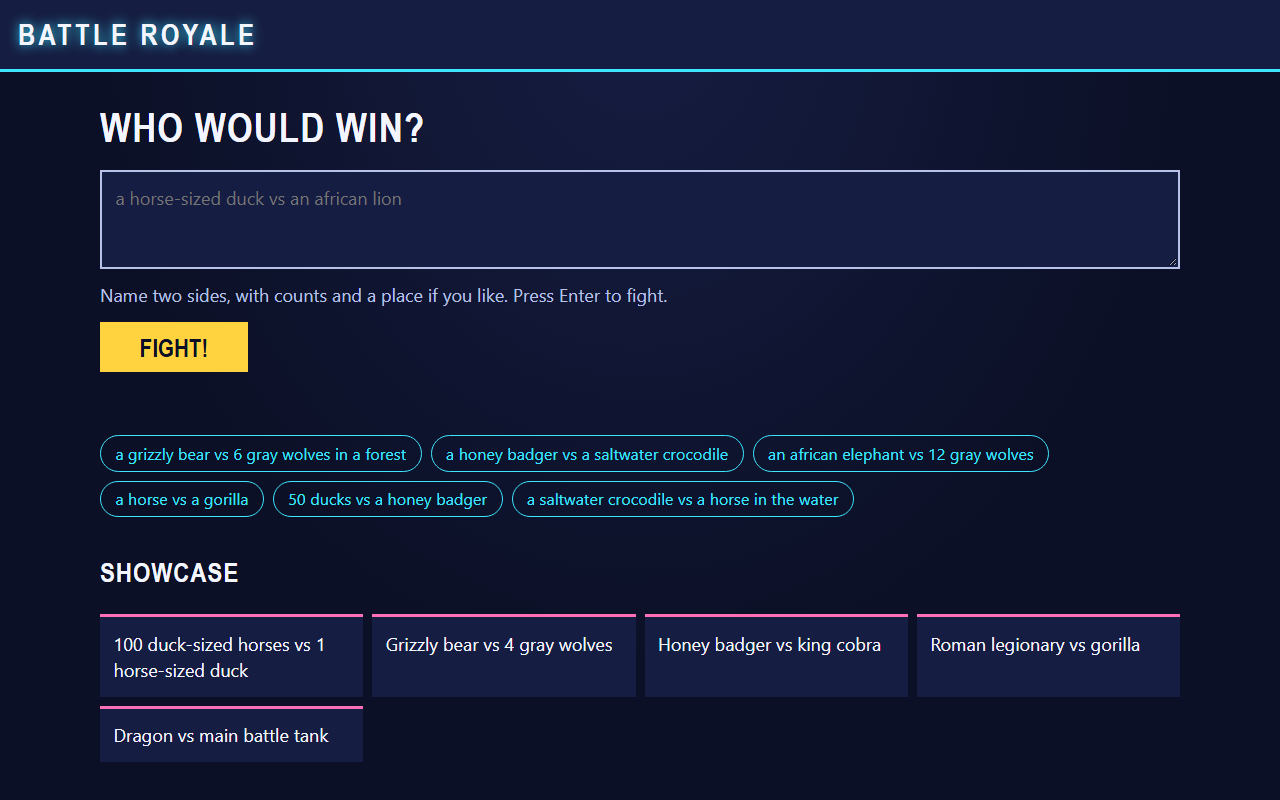
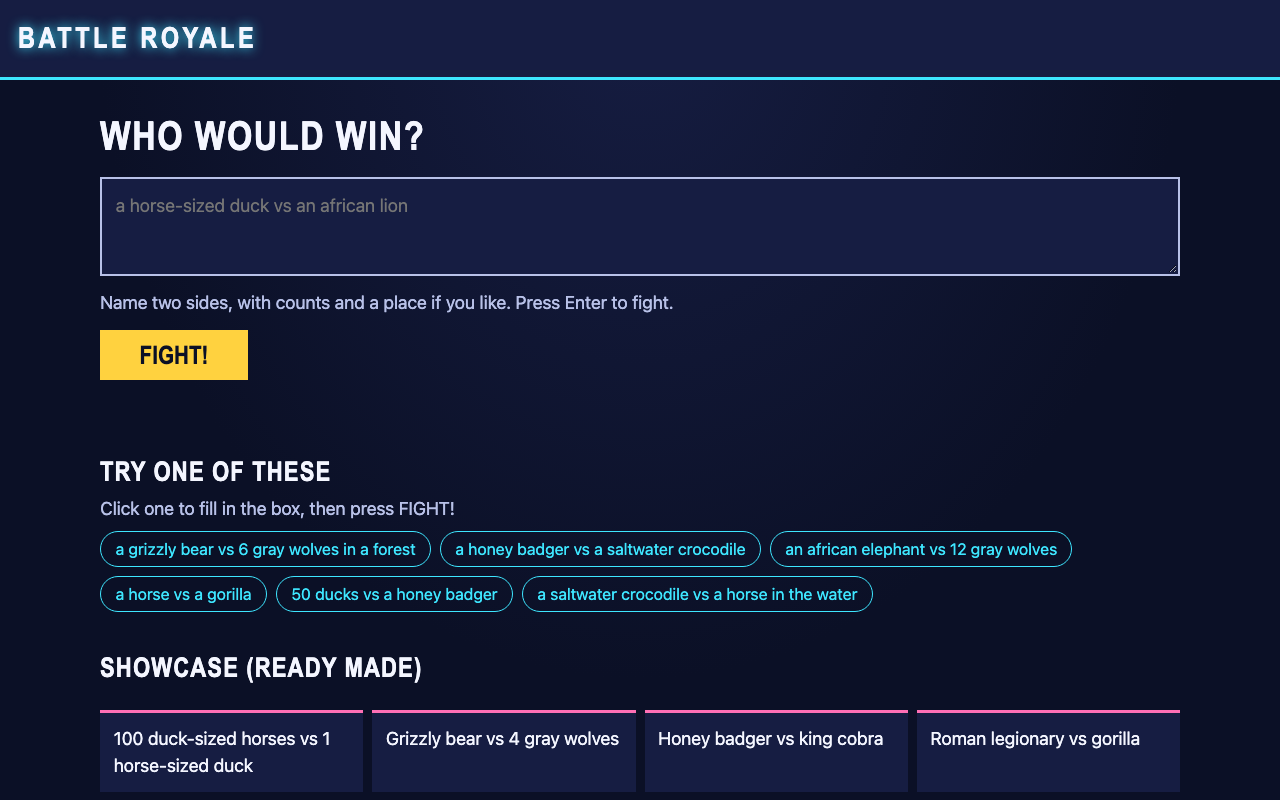
Re-shoot the home page screenshot with the new headings (#511, #513)
/qa: the guide's alt text described the new headings but the picture
still showed the old page. 05-home.png is re-shot at 1280x800 from this
branch. Also gives "Try one of these" the same size as the Showcase
heading, as #511 asks, and says a live example takes about a minute or
two.

Claude-Session: https://claude.ai/code/session_01YKz4y2WQsyZGQJf2VoHNiX

diff --git a/frontend/src/pages/home.module.css b/frontend/src/pages/home.module.css
@@ -43,7 +43,6 @@
 
 .examples h2 {
   margin: 0.5rem 0 0.25rem;
-  font-size: 1rem;
 }
 
 .examples p {

diff --git a/docs/user-guide.md b/docs/user-guide.md
@@ -135,7 +135,7 @@ On the battle and results pages, a **Home** button in the top bar brings you bac
 
 ### Type a matchup
 
-Type two sides into the box, with how many of each and, if you like, a place. Then press Enter or click **FIGHT!**. You can also click one of the example matchups under **Try one of these**, below the box: it fills in the box, and then you click **FIGHT!**. An example starts a new fight, researched and simulated live, so it takes up to a minute or so.
+Type two sides into the box, with how many of each and, if you like, a place. Then press Enter or click **FIGHT!**. You can also click one of the example matchups under **Try one of these**, below the box: it fills in the box, and then you click **FIGHT!**. An example starts a new fight, researched and simulated live, so it takes about a minute or two.
 
 Good examples:
 
